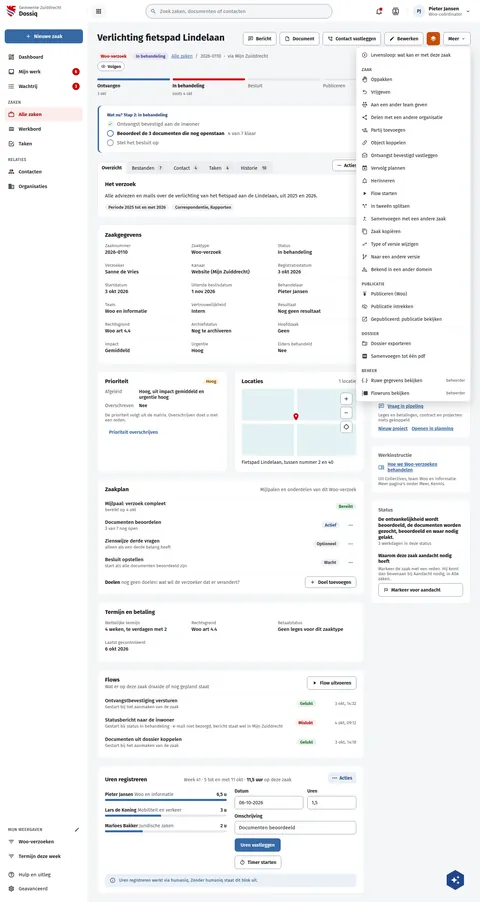
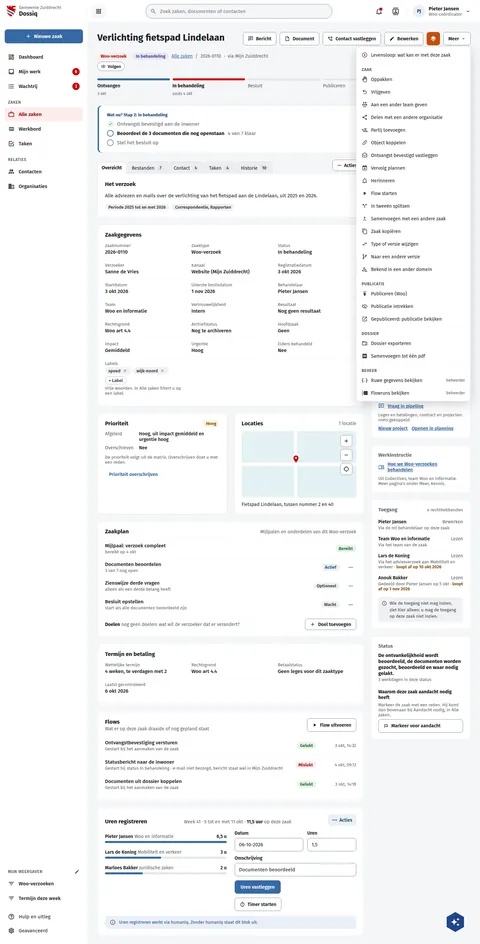
fix(screens): DqZaakMeer draws the Labels row and the Toegang card, as DqZaak does
DqZaakMeer is the same page and case as DqZaak with the Meer menu open. Ruben
chose one drawing for the page on 6 Nov.

Assisted-by: ClaudeCode:claude-opus-5-5

diff --git a/preview/screens/boards/DqZaakMeer.html b/preview/screens/boards/DqZaakMeer.html
@@ -232,7 +232,7 @@ a{color:var(--sc-primary, #3669a5)}a:hover{color:var(--sc-primary-deep, #234a78)
             </section>
             <section aria-labelledby="zg-titel" style="background: #ffffff; border: 1px solid var(--sc-work-line, #e4e6ea); border-radius: 12px; padding: 20px 22px; display: flex; flex-direction: column; gap: 14px">
               <h2 id="zg-titel" style="margin: 0; font-size: 17px; font-weight: 700">Zaakgegevens</h2>
-              <dl style="margin: 0; display: grid; grid-template-columns: repeat(auto-fit, minmax(200px, 1fr)); gap: 12px 24px; font-size: 15px"><div style="display: flex; flex-direction: column; gap: 3px; padding-bottom: 10px; border-bottom: 1px solid var(--sc-work-soft, #eef0f3)"><dt style="font-size: 13px; color: var(--sc-work-muted, #5e6168)">Zaaknummer</dt><dd style="margin: 0; font-weight: 500">2026-0110</dd></div><div style="display: flex; flex-direction: column; gap: 3px; padding-bottom: 10px; border-bottom: 1px solid var(--sc-work-soft, #eef0f3)"><dt style="font-size: 13px; color: var(--sc-work-muted, #5e6168)">Zaaktype</dt><dd style="margin: 0; font-weight: 500">Woo-verzoek</dd></div><div style="display: flex; flex-direction: column; gap: 3px; padding-bottom: 10px; border-bottom: 1px solid var(--sc-work-soft, #eef0f3)"><dt style="font-size: 13px; color: var(--sc-work-muted, #5e6168)">Status</dt><dd style="margin: 0; font-weight: 500">In behandeling</dd></div><div style="display: flex; flex-direction: column; gap: 3px; padding-bottom: 10px; border-bottom: 1px solid var(--sc-work-soft, #eef0f3)"><dt style="font-size: 13px; color: var(--sc-work-muted, #5e6168)">Verzoeker</dt><dd style="margin: 0; font-weight: 500">Sanne de Vries</dd></div><div style="display: flex; flex-direction: column; gap: 3px; padding-bottom: 10px; border-bottom: 1px solid var(--sc-work-soft, #eef0f3)"><dt style="font-size: 13px; color: var(--sc-work-muted, #5e6168)">Kanaal</dt><dd style="margin: 0; font-weight: 500">Website (Mijn Zuiddrecht)</dd></div><div style="display: flex; flex-direction: column; gap: 3px; padding-bottom: 10px; border-bottom: 1px solid var(--sc-work-soft, #eef0f3)"><dt style="font-size: 13px; color: var(--sc-work-muted, #5e6168)">Registratiedatum</dt><dd style="margin: 0; font-weight: 500">3 okt 2026</dd></div><div style="display: flex; flex-direction: column; gap: 3px; padding-bottom: 10px; border-bottom: 1px solid var(--sc-work-soft, #eef0f3)"><dt style="font-size: 13px; color: var(--sc-work-muted, #5e6168)">Startdatum</dt><dd style="margin: 0; font-weight: 500">3 okt 2026</dd></div><div style="display: flex; flex-direction: column; gap: 3px; padding-bottom: 10px; border-bottom: 1px solid var(--sc-work-soft, #eef0f3)"><dt style="font-size: 13px; color: var(--sc-work-muted, #5e6168)">Uiterste beslisdatum</dt><dd style="margin: 0; font-weight: 500">1 nov 2026</dd></div><div style="display: flex; flex-direction: column; gap: 3px; padding-bottom: 10px; border-bottom: 1px solid var(--sc-work-soft, #eef0f3)"><dt style="font-size: 13px; color: var(--sc-work-muted, #5e6168)">Behandelaar</dt><dd style="margin: 0; font-weight: 500">Pieter Jansen</dd></div><div style="display: flex; flex-direction: column; gap: 3px; padding-bottom: 10px; border-bottom: 1px solid var(--sc-work-soft, #eef0f3)"><dt style="font-size: 13px; color: var(--sc-work-muted, #5e6168)">Team</dt><dd style="margin: 0; font-weight: 500">Woo en informatie</dd></div><div style="display: flex; flex-direction: column; gap: 3px; padding-bottom: 10px; border-bottom: 1px solid var(--sc-work-soft, #eef0f3)"><dt style="font-size: 13px; color: var(--sc-work-muted, #5e6168)">Vertrouwelijkheid</dt><dd style="margin: 0; font-weight: 500">Intern</dd></div><div style="display: flex; flex-direction: column; gap: 3px; padding-bottom: 10px; border-bottom: 1px solid var(--sc-work-soft, #eef0f3)"><dt style="font-size: 13px; color: var(--sc-work-muted, #5e6168)">Resultaat</dt><dd style="margin: 0; font-weight: 500">Nog geen resultaat</dd></div><div style="display: flex; flex-direction: column; gap: 3px; padding-bottom: 10px; border-bottom: 1px solid var(--sc-work-soft, #eef0f3)"><dt style="font-size: 13px; color: var(--sc-work-muted, #5e6168)">Rechtsgrond</dt><dd style="margin: 0; font-weight: 500">Woo art 4.4</dd></div><div style="display: flex; flex-direction: column; gap: 3px; padding-bottom: 10px; border-bottom: 1px solid var(--sc-work-soft, #eef0f3)"><dt style="font-size: 13px; color: var(--sc-work-muted, #5e6168)">Archiefstatus</dt><dd style="margin: 0; font-weight: 500">Nog te archiveren</dd></div><div style="display: flex; flex-direction: column; gap: 3px; padding-bottom: 10px; border-bottom: 1px solid var(--sc-work-soft, #eef0f3)"><dt style="font-size: 13px; color: var(--sc-work-muted, #5e6168)">Hoofdzaak</dt><dd style="margin: 0; font-weight: 500">Geen</dd></div><div style="display: flex; flex-direction: column; gap: 3px; padding-bottom: 10px; border-bottom: 1px solid var(--sc-work-soft, #eef0f3)"><dt style="font-size: 13px; color: var(--sc-work-muted, #5e6168)">Impact</dt><dd style="margin: 0; font-weight: 500">Gemiddeld</dd></div><div style="display: flex; flex-direction: column; gap: 3px; padding-bottom: 10px; border-bottom: 1px solid var(--sc-work-soft, #eef0f3)"><dt style="font-size: 13px; color: var(--sc-work-muted, #5e6168)">Urgentie</dt><dd style="margin: 0; font-weight: 500">Hoog</dd></div><div style="display: flex; flex-direction: column; gap: 3px; padding-bottom: 10px; border-bottom: 1px solid var(--sc-work-soft, #eef0f3)"><dt style="font-size: 13px; color: var(--sc-work-muted, #5e6168)">Elders behandeld</dt><dd style="margin: 0; font-weight: 500">Nee</dd></div></dl>
+              <dl style="margin: 0; display: grid; grid-template-columns: repeat(auto-fit, minmax(200px, 1fr)); gap: 12px 24px; font-size: 15px"><div style="display: flex; flex-direction: column; gap: 3px; padding-bottom: 10px; border-bottom: 1px solid var(--sc-work-soft, #eef0f3)"><dt style="font-size: 13px; color: var(--sc-work-muted, #5e6168)">Zaaknummer</dt><dd style="margin: 0; font-weight: 500">2026-0110</dd></div><div style="display: flex; flex-direction: column; gap: 3px; padding-bottom: 10px; border-bottom: 1px solid var(--sc-work-soft, #eef0f3)"><dt style="font-size: 13px; color: var(--sc-work-muted, #5e6168)">Zaaktype</dt><dd style="margin: 0; font-weight: 500">Woo-verzoek</dd></div><div style="display: flex; flex-direction: column; gap: 3px; padding-bottom: 10px; border-bottom: 1px solid var(--sc-work-soft, #eef0f3)"><dt style="font-size: 13px; color: var(--sc-work-muted, #5e6168)">Status</dt><dd style="margin: 0; font-weight: 500">In behandeling</dd></div><div style="display: flex; flex-direction: column; gap: 3px; padding-bottom: 10px; border-bottom: 1px solid var(--sc-work-soft, #eef0f3)"><dt style="font-size: 13px; color: var(--sc-work-muted, #5e6168)">Verzoeker</dt><dd style="margin: 0; font-weight: 500">Sanne de Vries</dd></div><div style="display: flex; flex-direction: column; gap: 3px; padding-bottom: 10px; border-bottom: 1px solid var(--sc-work-soft, #eef0f3)"><dt style="font-size: 13px; color: var(--sc-work-muted, #5e6168)">Kanaal</dt><dd style="margin: 0; font-weight: 500">Website (Mijn Zuiddrecht)</dd></div><div style="display: flex; flex-direction: column; gap: 3px; padding-bottom: 10px; border-bottom: 1px solid var(--sc-work-soft, #eef0f3)"><dt style="font-size: 13px; color: var(--sc-work-muted, #5e6168)">Registratiedatum</dt><dd style="margin: 0; font-weight: 500">3 okt 2026</dd></div><div style="display: flex; flex-direction: column; gap: 3px; padding-bottom: 10px; border-bottom: 1px solid var(--sc-work-soft, #eef0f3)"><dt style="font-size: 13px; color: var(--sc-work-muted, #5e6168)">Startdatum</dt><dd style="margin: 0; font-weight: 500">3 okt 2026</dd></div><div style="display: flex; flex-direction: column; gap: 3px; padding-bottom: 10px; border-bottom: 1px solid var(--sc-work-soft, #eef0f3)"><dt style="font-size: 13px; color: var(--sc-work-muted, #5e6168)">Uiterste beslisdatum</dt><dd style="margin: 0; font-weight: 500">1 nov 2026</dd></div><div style="display: flex; flex-direction: column; gap: 3px; padding-bottom: 10px; border-bottom: 1px solid var(--sc-work-soft, #eef0f3)"><dt style="font-size: 13px; color: var(--sc-work-muted, #5e6168)">Behandelaar</dt><dd style="margin: 0; font-weight: 500">Pieter Jansen</dd></div><div style="display: flex; flex-direction: column; gap: 3px; padding-bottom: 10px; border-bottom: 1px solid var(--sc-work-soft, #eef0f3)"><dt style="font-size: 13px; color: var(--sc-work-muted, #5e6168)">Team</dt><dd style="margin: 0; font-weight: 500">Woo en informatie</dd></div><div style="display: flex; flex-direction: column; gap: 3px; padding-bottom: 10px; border-bottom: 1px solid var(--sc-work-soft, #eef0f3)"><dt style="font-size: 13px; color: var(--sc-work-muted, #5e6168)">Vertrouwelijkheid</dt><dd style="margin: 0; font-weight: 500">Intern</dd></div><div style="display: flex; flex-direction: column; gap: 3px; padding-bottom: 10px; border-bottom: 1px solid var(--sc-work-soft, #eef0f3)"><dt style="font-size: 13px; color: var(--sc-work-muted, #5e6168)">Resultaat</dt><dd style="margin: 0; font-weight: 500">Nog geen resultaat</dd></div><div style="display: flex; flex-direction: column; gap: 3px; padding-bottom: 10px; border-bottom: 1px solid var(--sc-work-soft, #eef0f3)"><dt style="font-size: 13px; color: var(--sc-work-muted, #5e6168)">Rechtsgrond</dt><dd style="margin: 0; font-weight: 500">Woo art 4.4</dd></div><div style="display: flex; flex-direction: column; gap: 3px; padding-bottom: 10px; border-bottom: 1px solid var(--sc-work-soft, #eef0f3)"><dt style="font-size: 13px; color: var(--sc-work-muted, #5e6168)">Archiefstatus</dt><dd style="margin: 0; font-weight: 500">Nog te archiveren</dd></div><div style="display: flex; flex-direction: column; gap: 3px; padding-bottom: 10px; border-bottom: 1px solid var(--sc-work-soft, #eef0f3)"><dt style="font-size: 13px; color: var(--sc-work-muted, #5e6168)">Hoofdzaak</dt><dd style="margin: 0; font-weight: 500">Geen</dd></div><div style="display: flex; flex-direction: column; gap: 3px; padding-bottom: 10px; border-bottom: 1px solid var(--sc-work-soft, #eef0f3)"><dt style="font-size: 13px; color: var(--sc-work-muted, #5e6168)">Impact</dt><dd style="margin: 0; font-weight: 500">Gemiddeld</dd></div><div style="display: flex; flex-direction: column; gap: 3px; padding-bottom: 10px; border-bottom: 1px solid var(--sc-work-soft, #eef0f3)"><dt style="font-size: 13px; color: var(--sc-work-muted, #5e6168)">Urgentie</dt><dd style="margin: 0; font-weight: 500">Hoog</dd></div><div style="display: flex; flex-direction: column; gap: 3px; padding-bottom: 10px; border-bottom: 1px solid var(--sc-work-soft, #eef0f3)"><dt style="font-size: 13px; color: var(--sc-work-muted, #5e6168)">Elders behandeld</dt><dd style="margin: 0; font-weight: 500">Nee</dd></div><div style="display: flex; flex-direction: column; gap: 3px; padding-bottom: 10px; border-bottom: 1px solid var(--sc-work-soft, #eef0f3)"><dt style="font-size: 13px; color: var(--sc-work-muted, #5e6168)">Labels</dt><dd style="margin: 0; font-weight: 500"><span style="display: flex; flex-wrap: wrap; gap: 6px; align-items: center"><span style="display: inline-flex; align-items: center; gap: 4px; padding: 2px 10px; border-radius: 12px; background: var(--sc-work-chip, #f0f1f3); color: var(--sc-work-text, #3d4047); font-size: 13px; font-weight: 600">spoed<button type="button" aria-label="Label spoed verwijderen" style="width: 18px; height: 18px; border: 0; border-radius: 9px; background: transparent; color: var(--sc-work-muted, #5e6168); display: inline-flex; align-items: center; justify-content: center; padding: 0"><svg width="12" height="12" viewbox="0 0 24 24" fill="currentColor"><path d="M19,6.41L17.59,5L12,10.59L6.41,5L5,6.41L10.59,12L5,17.59L6.41,19L12,13.41L17.59,19L19,17.59L13.41,12L19,6.41Z"></path></svg></button></span><span style="display: inline-flex; align-items: center; gap: 4px; padding: 2px 10px; border-radius: 12px; background: var(--sc-work-chip, #f0f1f3); color: var(--sc-work-text, #3d4047); font-size: 13px; font-weight: 600">wijk-noord<button type="button" aria-label="Label wijk-noord verwijderen" style="width: 18px; height: 18px; border: 0; border-radius: 9px; background: transparent; color: var(--sc-work-muted, #5e6168); display: inline-flex; align-items: center; justify-content: center; padding: 0"><svg width="12" height="12" viewbox="0 0 24 24" fill="currentColor"><path d="M19,6.41L17.59,5L12,10.59L6.41,5L5,6.41L10.59,12L5,17.59L6.41,19L12,13.41L17.59,19L19,17.59L13.41,12L19,6.41Z"></path></svg></button></span><button type="button" style="height: 24px; padding: 0 10px; border: 1px dashed var(--sc-work-field, #828a95); border-radius: 12px; background: #ffffff; font: 600 13px var(--sc-font, 'Fira Sans'), sans-serif; color: var(--sc-work-text, #3d4047)">+ Label</button></span><span style="display: block; margin-top: 4px; font-size: 13px; color: var(--sc-work-muted, #5e6168); font-weight: 400">Vrije woorden. In Alle zaken filtert u op een label.</span></dd></div></dl>
             </section>
             <div style="display: grid; grid-template-columns: repeat(auto-fit, minmax(300px, 1fr)); gap: 20px">
               <section aria-labelledby="pr-titel" style="background: #ffffff; border: 1px solid var(--sc-work-line, #e4e6ea); border-radius: 12px; padding: 20px 22px; display: flex; flex-direction: column; gap: 12px">
@@ -308,6 +308,16 @@ a{color:var(--sc-primary, #3669a5)}a:hover{color:var(--sc-primary-deep, #234a78)
               <h2 style="margin: 0; font-size: 15px; font-weight: 600; color: var(--sc-work-muted, #5e6168)">Werkinstructie</h2>
               <a href="#" style="display: flex; gap: 10px; align-items: center; font-size: 14px; font-weight: 600"><svg width="18" height="18" viewbox="0 0 24 24" fill="currentColor"><path d="M12 21.5C10.65 20.65 8.2 20 6.5 20C4.85 20 3.15 20.3 1.75 21.05C1.65 21.1 1.6 21.1 1.5 21.1C1.25 21.1 1 20.85 1 20.6V6C1.6 5.55 2.25 5.25 3 5C4.11 4.65 5.33 4.5 6.5 4.5C8.45 4.5 10.55 4.9 12 6C13.45 4.9 15.55 4.5 17.5 4.5C18.67 4.5 19.89 4.65 21 5C21.75 5.25 22.4 5.55 23 6V20.6C23 20.85 22.75 21.1 22.5 21.1C22.4 21.1 22.35 21.1 22.25 21.05C20.85 20.3 19.15 20 17.5 20C15.8 20 13.35 20.65 12 21.5M11 7.5C9.64 6.9 7.84 6.5 6.5 6.5C5.3 6.5 4.1 6.65 3 7V18.5C4.1 18.15 5.3 18 6.5 18C7.84 18 9.64 18.4 11 19V7.5M13 19C14.36 18.4 16.16 18 17.5 18C18.7 18 19.9 18.15 21 18.5V7C19.9 6.65 18.7 6.5 17.5 6.5C16.16 6.5 14.36 6.9 13 7.5V19M14 16.35C14.96 16 16.12 15.83 17.5 15.83C18.54 15.83 19.38 15.91 20 16.07V14.57C19.13 14.41 18.29 14.33 17.5 14.33C16.16 14.33 15 14.5 14 14.76V16.35M14 13.69C14.96 13.34 16.12 13.16 17.5 13.16C18.54 13.16 19.38 13.24 20 13.4V11.9C19.13 11.74 18.29 11.67 17.5 11.67C16.22 11.67 15.05 11.82 14 12.12V13.69M14 11C14.96 10.67 16.12 10.5 17.5 10.5C18.41 10.5 19.26 10.59 20 10.78V9.23C19.13 9.08 18.29 9 17.5 9C16.18 9 15 9.15 14 9.46V11Z"></path></svg>Hoe we Woo-verzoeken behandelen</a>
               <span style="font-size: 13px; color: var(--sc-work-muted, #5e6168)">Uit Collectives, team Woo en informatie. Meer pagina's onder Meer, Kennis.</span>
+            </section>
+            <section aria-labelledby="tg-titel" style="background: #ffffff; border: 1px solid var(--sc-work-line, #e4e6ea); border-radius: 12px; padding: 20px 22px; display: flex; flex-direction: column; gap: 10px">
+              <div style="display: flex; justify-content: space-between; align-items: center; gap: 10px"><h2 id="tg-titel" style="margin: 0; font-size: 15px; font-weight: 600; color: var(--sc-work-muted, #5e6168)">Toegang</h2><span style="font-size: 13px; color: var(--sc-work-muted, #5e6168)">4 rechthebbenden</span></div>
+              <ul style="margin: 0; padding: 0; list-style: none; display: flex; flex-direction: column; font-size: 14px">
+                <li style="display: flex; flex-direction: column; gap: 2px; padding: 8px 0; border-top: 1px solid var(--sc-work-soft, #eef0f3)"><span style="display: flex; justify-content: space-between; gap: 8px"><strong style="font-weight: 600">Pieter Jansen</strong><span style="color: var(--sc-work-muted, #5e6168)">Bewerken</span></span><span style="font-size: 13px; color: var(--sc-work-muted, #5e6168)">Via de rol behandelaar op deze zaak</span></li>
+                <li style="display: flex; flex-direction: column; gap: 2px; padding: 8px 0; border-top: 1px solid var(--sc-work-soft, #eef0f3)"><span style="display: flex; justify-content: space-between; gap: 8px"><strong style="font-weight: 600">Team Woo en informatie</strong><span style="color: var(--sc-work-muted, #5e6168)">Lezen</span></span><span style="font-size: 13px; color: var(--sc-work-muted, #5e6168)">Via het team van de zaak</span></li>
+                <li style="display: flex; flex-direction: column; gap: 2px; padding: 8px 0; border-top: 1px solid var(--sc-work-soft, #eef0f3)"><span style="display: flex; justify-content: space-between; gap: 8px"><strong style="font-weight: 600">Lars de Koning</strong><span style="color: var(--sc-work-muted, #5e6168)">Lezen</span></span><span style="font-size: 13px; color: var(--sc-work-muted, #5e6168)">Via het adviesverzoek aan Mobiliteit en verkeer · <span style="color: #7a4f00; font-weight: 600">loopt af op 10 okt 2026</span></span></li>
+                <li style="display: flex; flex-direction: column; gap: 2px; padding: 8px 0; border-top: 1px solid var(--sc-work-soft, #eef0f3)"><span style="display: flex; justify-content: space-between; gap: 8px"><strong style="font-weight: 600">Anouk Bakker</strong><span style="color: var(--sc-work-muted, #5e6168)">Lezen</span></span><span style="font-size: 13px; color: var(--sc-work-muted, #5e6168)">Gedeeld door Pieter Jansen op 5 okt · <span style="color: #7a4f00; font-weight: 600">loopt af op 1 nov 2026</span></span></li>
+              </ul>
+              <span style="display: flex; gap: 8px; align-items: flex-start; padding: 8px 10px; border-radius: 8px; background: var(--sc-work-chip, #f0f1f3); font-size: 13px; color: var(--sc-work-text, #3d4047); line-height: 1.5"><svg width="16" height="16" viewbox="0 0 24 24" fill="currentColor" aria-hidden="true" style="flex: none; margin-top: 2px"><path d="M11,9H13V7H11M12,20C7.59,20 4,16.41 4,12C4,7.59 7.59,4 12,4C16.41,4 20,7.59 20,12C20,16.41 16.41,20 12,20M12,2A10,10 0 0,0 2,12A10,10 0 0,0 12,22A10,10 0 0,0 22,12A10,10 0 0,0 12,2M11,17H13V11H11V17Z"></path></svg><span>Wie de toegang niet mag inzien, ziet hier alleen: u mag de toegang op deze zaak niet inzien.</span></span>
             </section>
             <section style="background: #ffffff; border: 1px solid var(--sc-work-line, #e4e6ea); border-radius: 12px; padding: 20px 22px; display: flex; flex-direction: column; gap: 10px"><h2 style="margin: 0; font-size: 15px; font-weight: 600; color: var(--sc-work-muted, #5e6168)">Status</h2><span style="display: flex; flex-direction: column; gap: 2px"><strong style="font-size: 15px">De ontvankelijkheid wordt beoordeeld, de documenten worden gezocht, beoordeeld en waar nodig gelakt.</strong><span style="font-size: 13px; color: var(--sc-work-muted, #5e6168)">3 werkdagen in deze status</span></span><div style="display: flex; flex-direction: column; gap: 6px; padding-top: 10px; border-top: 1px solid var(--sc-work-soft, #eef0f3)"><strong style="font-size: 14px">Waarom deze zaak aandacht nodig heeft</strong><span style="font-size: 13px; color: var(--sc-work-muted, #5e6168)">Markeer de zaak met een reden. Hij komt dan bovenaan bij Aandacht nodig, in Alle zaken.</span><button type="button" style="display: inline-flex; align-items: center; gap: 8px; height: 40px; padding: 0 14px; border-radius: 8px; border: 1px solid var(--sc-work-field, #828a95); background: #ffffff; color: var(--sc-work-ink, #1b1c1d); font: 600 14px var(--sc-font, 'Fira Sans'), sans-serif; white-space: nowrap"><svg width="16" height="16" viewbox="0 0 24 24" fill="currentColor" aria-hidden="true"><path d="M12.36,6L12.76,8H18V14H14.64L14.24,12H7V6H12.36M14,4H5V21H7V14H12.6L13,16H20V6H14.4"></path></svg>Markeer voor aandacht</button></div></section>
           </aside>

diff --git a/screens-src/zuiddrecht/DqZaakMeer.dc.html b/screens-src/zuiddrecht/DqZaakMeer.dc.html
@@ -82,7 +82,7 @@ a{color:#3669a5}a:hover{color:#234a78}
             </section>
             <section aria-labelledby="zg-titel" style="background: #ffffff; border: 1px solid #e4e6ea; border-radius: 12px; padding: 20px 22px; display: flex; flex-direction: column; gap: 14px">
               <h2 id="zg-titel" style="margin: 0; font-size: 17px; font-weight: 700">Zaakgegevens</h2>
-              <dl style="margin: 0; display: grid; grid-template-columns: repeat(auto-fit, minmax(200px, 1fr)); gap: 12px 24px; font-size: 15px"><div style="display: flex; flex-direction: column; gap: 3px; padding-bottom: 10px; border-bottom: 1px solid #eef0f3"><dt style="font-size: 13px; color: #5e6168">Zaaknummer</dt><dd style="margin: 0; font-weight: 500">2026-0110</dd></div><div style="display: flex; flex-direction: column; gap: 3px; padding-bottom: 10px; border-bottom: 1px solid #eef0f3"><dt style="font-size: 13px; color: #5e6168">Zaaktype</dt><dd style="margin: 0; font-weight: 500">Woo-verzoek</dd></div><div style="display: flex; flex-direction: column; gap: 3px; padding-bottom: 10px; border-bottom: 1px solid #eef0f3"><dt style="font-size: 13px; color: #5e6168">Status</dt><dd style="margin: 0; font-weight: 500">In behandeling</dd></div><div style="display: flex; flex-direction: column; gap: 3px; padding-bottom: 10px; border-bottom: 1px solid #eef0f3"><dt style="font-size: 13px; color: #5e6168">Verzoeker</dt><dd style="margin: 0; font-weight: 500">Sanne de Vries</dd></div><div style="display: flex; flex-direction: column; gap: 3px; padding-bottom: 10px; border-bottom: 1px solid #eef0f3"><dt style="font-size: 13px; color: #5e6168">Kanaal</dt><dd style="margin: 0; font-weight: 500">Website (Mijn Zuiddrecht)</dd></div><div style="display: flex; flex-direction: column; gap: 3px; padding-bottom: 10px; border-bottom: 1px solid #eef0f3"><dt style="font-size: 13px; color: #5e6168">Registratiedatum</dt><dd style="margin: 0; font-weight: 500">3 okt 2026</dd></div><div style="display: flex; flex-direction: column; gap: 3px; padding-bottom: 10px; border-bottom: 1px solid #eef0f3"><dt style="font-size: 13px; color: #5e6168">Startdatum</dt><dd style="margin: 0; font-weight: 500">3 okt 2026</dd></div><div style="display: flex; flex-direction: column; gap: 3px; padding-bottom: 10px; border-bottom: 1px solid #eef0f3"><dt style="font-size: 13px; color: #5e6168">Uiterste beslisdatum</dt><dd style="margin: 0; font-weight: 500">1 nov 2026</dd></div><div style="display: flex; flex-direction: column; gap: 3px; padding-bottom: 10px; border-bottom: 1px solid #eef0f3"><dt style="font-size: 13px; color: #5e6168">Behandelaar</dt><dd style="margin: 0; font-weight: 500">Pieter Jansen</dd></div><div style="display: flex; flex-direction: column; gap: 3px; padding-bottom: 10px; border-bottom: 1px solid #eef0f3"><dt style="font-size: 13px; color: #5e6168">Team</dt><dd style="margin: 0; font-weight: 500">Woo en informatie</dd></div><div style="display: flex; flex-direction: column; gap: 3px; padding-bottom: 10px; border-bottom: 1px solid #eef0f3"><dt style="font-size: 13px; color: #5e6168">Vertrouwelijkheid</dt><dd style="margin: 0; font-weight: 500">Intern</dd></div><div style="display: flex; flex-direction: column; gap: 3px; padding-bottom: 10px; border-bottom: 1px solid #eef0f3"><dt style="font-size: 13px; color: #5e6168">Resultaat</dt><dd style="margin: 0; font-weight: 500">Nog geen resultaat</dd></div><div style="display: flex; flex-direction: column; gap: 3px; padding-bottom: 10px; border-bottom: 1px solid #eef0f3"><dt style="font-size: 13px; color: #5e6168">Rechtsgrond</dt><dd style="margin: 0; font-weight: 500">Woo art 4.4</dd></div><div style="display: flex; flex-direction: column; gap: 3px; padding-bottom: 10px; border-bottom: 1px solid #eef0f3"><dt style="font-size: 13px; color: #5e6168">Archiefstatus</dt><dd style="margin: 0; font-weight: 500">Nog te archiveren</dd></div><div style="display: flex; flex-direction: column; gap: 3px; padding-bottom: 10px; border-bottom: 1px solid #eef0f3"><dt style="font-size: 13px; color: #5e6168">Hoofdzaak</dt><dd style="margin: 0; font-weight: 500">Geen</dd></div><div style="display: flex; flex-direction: column; gap: 3px; padding-bottom: 10px; border-bottom: 1px solid #eef0f3"><dt style="font-size: 13px; color: #5e6168">Impact</dt><dd style="margin: 0; font-weight: 500">Gemiddeld</dd></div><div style="display: flex; flex-direction: column; gap: 3px; padding-bottom: 10px; border-bottom: 1px solid #eef0f3"><dt style="font-size: 13px; color: #5e6168">Urgentie</dt><dd style="margin: 0; font-weight: 500">Hoog</dd></div><div style="display: flex; flex-direction: column; gap: 3px; padding-bottom: 10px; border-bottom: 1px solid #eef0f3"><dt style="font-size: 13px; color: #5e6168">Elders behandeld</dt><dd style="margin: 0; font-weight: 500">Nee</dd></div></dl>
+              <dl style="margin: 0; display: grid; grid-template-columns: repeat(auto-fit, minmax(200px, 1fr)); gap: 12px 24px; font-size: 15px"><div style="display: flex; flex-direction: column; gap: 3px; padding-bottom: 10px; border-bottom: 1px solid #eef0f3"><dt style="font-size: 13px; color: #5e6168">Zaaknummer</dt><dd style="margin: 0; font-weight: 500">2026-0110</dd></div><div style="display: flex; flex-direction: column; gap: 3px; padding-bottom: 10px; border-bottom: 1px solid #eef0f3"><dt style="font-size: 13px; color: #5e6168">Zaaktype</dt><dd style="margin: 0; font-weight: 500">Woo-verzoek</dd></div><div style="display: flex; flex-direction: column; gap: 3px; padding-bottom: 10px; border-bottom: 1px solid #eef0f3"><dt style="font-size: 13px; color: #5e6168">Status</dt><dd style="margin: 0; font-weight: 500">In behandeling</dd></div><div style="display: flex; flex-direction: column; gap: 3px; padding-bottom: 10px; border-bottom: 1px solid #eef0f3"><dt style="font-size: 13px; color: #5e6168">Verzoeker</dt><dd style="margin: 0; font-weight: 500">Sanne de Vries</dd></div><div style="display: flex; flex-direction: column; gap: 3px; padding-bottom: 10px; border-bottom: 1px solid #eef0f3"><dt style="font-size: 13px; color: #5e6168">Kanaal</dt><dd style="margin: 0; font-weight: 500">Website (Mijn Zuiddrecht)</dd></div><div style="display: flex; flex-direction: column; gap: 3px; padding-bottom: 10px; border-bottom: 1px solid #eef0f3"><dt style="font-size: 13px; color: #5e6168">Registratiedatum</dt><dd style="margin: 0; font-weight: 500">3 okt 2026</dd></div><div style="display: flex; flex-direction: column; gap: 3px; padding-bottom: 10px; border-bottom: 1px solid #eef0f3"><dt style="font-size: 13px; color: #5e6168">Startdatum</dt><dd style="margin: 0; font-weight: 500">3 okt 2026</dd></div><div style="display: flex; flex-direction: column; gap: 3px; padding-bottom: 10px; border-bottom: 1px solid #eef0f3"><dt style="font-size: 13px; color: #5e6168">Uiterste beslisdatum</dt><dd style="margin: 0; font-weight: 500">1 nov 2026</dd></div><div style="display: flex; flex-direction: column; gap: 3px; padding-bottom: 10px; border-bottom: 1px solid #eef0f3"><dt style="font-size: 13px; color: #5e6168">Behandelaar</dt><dd style="margin: 0; font-weight: 500">Pieter Jansen</dd></div><div style="display: flex; flex-direction: column; gap: 3px; padding-bottom: 10px; border-bottom: 1px solid #eef0f3"><dt style="font-size: 13px; color: #5e6168">Team</dt><dd style="margin: 0; font-weight: 500">Woo en informatie</dd></div><div style="display: flex; flex-direction: column; gap: 3px; padding-bottom: 10px; border-bottom: 1px solid #eef0f3"><dt style="font-size: 13px; color: #5e6168">Vertrouwelijkheid</dt><dd style="margin: 0; font-weight: 500">Intern</dd></div><div style="display: flex; flex-direction: column; gap: 3px; padding-bottom: 10px; border-bottom: 1px solid #eef0f3"><dt style="font-size: 13px; color: #5e6168">Resultaat</dt><dd style="margin: 0; font-weight: 500">Nog geen resultaat</dd></div><div style="display: flex; flex-direction: column; gap: 3px; padding-bottom: 10px; border-bottom: 1px solid #eef0f3"><dt style="font-size: 13px; color: #5e6168">Rechtsgrond</dt><dd style="margin: 0; font-weight: 500">Woo art 4.4</dd></div><div style="display: flex; flex-direction: column; gap: 3px; padding-bottom: 10px; border-bottom: 1px solid #eef0f3"><dt style="font-size: 13px; color: #5e6168">Archiefstatus</dt><dd style="margin: 0; font-weight: 500">Nog te archiveren</dd></div><div style="display: flex; flex-direction: column; gap: 3px; padding-bottom: 10px; border-bottom: 1px solid #eef0f3"><dt style="font-size: 13px; color: #5e6168">Hoofdzaak</dt><dd style="margin: 0; font-weight: 500">Geen</dd></div><div style="display: flex; flex-direction: column; gap: 3px; padding-bottom: 10px; border-bottom: 1px solid #eef0f3"><dt style="font-size: 13px; color: #5e6168">Impact</dt><dd style="margin: 0; font-weight: 500">Gemiddeld</dd></div><div style="display: flex; flex-direction: column; gap: 3px; padding-bottom: 10px; border-bottom: 1px solid #eef0f3"><dt style="font-size: 13px; color: #5e6168">Urgentie</dt><dd style="margin: 0; font-weight: 500">Hoog</dd></div><div style="display: flex; flex-direction: column; gap: 3px; padding-bottom: 10px; border-bottom: 1px solid #eef0f3"><dt style="font-size: 13px; color: #5e6168">Elders behandeld</dt><dd style="margin: 0; font-weight: 500">Nee</dd></div><div style="display: flex; flex-direction: column; gap: 3px; padding-bottom: 10px; border-bottom: 1px solid #eef0f3"><dt style="font-size: 13px; color: #5e6168">Labels</dt><dd style="margin: 0; font-weight: 500"><span style="display: flex; flex-wrap: wrap; gap: 6px; align-items: center"><span style="display: inline-flex; align-items: center; gap: 4px; padding: 2px 10px; border-radius: 12px; background: #f0f1f3; color: #3d4047; font-size: 13px; font-weight: 600">spoed<button type="button" aria-label="Label spoed verwijderen" style="width: 18px; height: 18px; border: 0; border-radius: 9px; background: transparent; color: #5e6168; display: inline-flex; align-items: center; justify-content: center; padding: 0"><svg width="12" height="12" viewBox="0 0 24 24" fill="currentColor"><path d="M19,6.41L17.59,5L12,10.59L6.41,5L5,6.41L10.59,12L5,17.59L6.41,19L12,13.41L17.59,19L19,17.59L13.41,12L19,6.41Z"></path></svg></button></span><span style="display: inline-flex; align-items: center; gap: 4px; padding: 2px 10px; border-radius: 12px; background: #f0f1f3; color: #3d4047; font-size: 13px; font-weight: 600">wijk-noord<button type="button" aria-label="Label wijk-noord verwijderen" style="width: 18px; height: 18px; border: 0; border-radius: 9px; background: transparent; color: #5e6168; display: inline-flex; align-items: center; justify-content: center; padding: 0"><svg width="12" height="12" viewBox="0 0 24 24" fill="currentColor"><path d="M19,6.41L17.59,5L12,10.59L6.41,5L5,6.41L10.59,12L5,17.59L6.41,19L12,13.41L17.59,19L19,17.59L13.41,12L19,6.41Z"></path></svg></button></span><button type="button" style="height: 24px; padding: 0 10px; border: 1px dashed #828a95; border-radius: 12px; background: #ffffff; font: 600 13px 'Fira Sans', sans-serif; color: #3d4047">+ Label</button></span><span style="display: block; margin-top: 4px; font-size: 13px; color: #5e6168; font-weight: 400">Vrije woorden. In Alle zaken filtert u op een label.</span></dd></div></dl>
             </section>
             <div style="display: grid; grid-template-columns: repeat(auto-fit, minmax(300px, 1fr)); gap: 20px">
               <section aria-labelledby="pr-titel" style="background: #ffffff; border: 1px solid #e4e6ea; border-radius: 12px; padding: 20px 22px; display: flex; flex-direction: column; gap: 12px">
@@ -158,6 +158,16 @@ a{color:#3669a5}a:hover{color:#234a78}
               <h2 style="margin: 0; font-size: 15px; font-weight: 600; color: #5e6168">Werkinstructie</h2>
               <a href="#" style="display: flex; gap: 10px; align-items: center; font-size: 14px; font-weight: 600"><svg width="18" height="18" viewBox="0 0 24 24" fill="currentColor"><path d="M12 21.5C10.65 20.65 8.2 20 6.5 20C4.85 20 3.15 20.3 1.75 21.05C1.65 21.1 1.6 21.1 1.5 21.1C1.25 21.1 1 20.85 1 20.6V6C1.6 5.55 2.25 5.25 3 5C4.11 4.65 5.33 4.5 6.5 4.5C8.45 4.5 10.55 4.9 12 6C13.45 4.9 15.55 4.5 17.5 4.5C18.67 4.5 19.89 4.65 21 5C21.75 5.25 22.4 5.55 23 6V20.6C23 20.85 22.75 21.1 22.5 21.1C22.4 21.1 22.35 21.1 22.25 21.05C20.85 20.3 19.15 20 17.5 20C15.8 20 13.35 20.65 12 21.5M11 7.5C9.64 6.9 7.84 6.5 6.5 6.5C5.3 6.5 4.1 6.65 3 7V18.5C4.1 18.15 5.3 18 6.5 18C7.84 18 9.64 18.4 11 19V7.5M13 19C14.36 18.4 16.16 18 17.5 18C18.7 18 19.9 18.15 21 18.5V7C19.9 6.65 18.7 6.5 17.5 6.5C16.16 6.5 14.36 6.9 13 7.5V19M14 16.35C14.96 16 16.12 15.83 17.5 15.83C18.54 15.83 19.38 15.91 20 16.07V14.57C19.13 14.41 18.29 14.33 17.5 14.33C16.16 14.33 15 14.5 14 14.76V16.35M14 13.69C14.96 13.34 16.12 13.16 17.5 13.16C18.54 13.16 19.38 13.24 20 13.4V11.9C19.13 11.74 18.29 11.67 17.5 11.67C16.22 11.67 15.05 11.82 14 12.12V13.69M14 11C14.96 10.67 16.12 10.5 17.5 10.5C18.41 10.5 19.26 10.59 20 10.78V9.23C19.13 9.08 18.29 9 17.5 9C16.18 9 15 9.15 14 9.46V11Z"></path></svg>Hoe we Woo-verzoeken behandelen</a>
               <span style="font-size: 13px; color: #5e6168">Uit Collectives, team Woo en informatie. Meer pagina's onder Meer, Kennis.</span>
+            </section>
+            <section aria-labelledby="tg-titel" style="background: #ffffff; border: 1px solid #e4e6ea; border-radius: 12px; padding: 20px 22px; display: flex; flex-direction: column; gap: 10px">
+              <div style="display: flex; justify-content: space-between; align-items: center; gap: 10px"><h2 id="tg-titel" style="margin: 0; font-size: 15px; font-weight: 600; color: #5e6168">Toegang</h2><span style="font-size: 13px; color: #5e6168">4 rechthebbenden</span></div>
+              <ul style="margin: 0; padding: 0; list-style: none; display: flex; flex-direction: column; font-size: 14px">
+                <li style="display: flex; flex-direction: column; gap: 2px; padding: 8px 0; border-top: 1px solid #eef0f3"><span style="display: flex; justify-content: space-between; gap: 8px"><strong style="font-weight: 600">Pieter Jansen</strong><span style="color: #5e6168">Bewerken</span></span><span style="font-size: 13px; color: #5e6168">Via de rol behandelaar op deze zaak</span></li>
+                <li style="display: flex; flex-direction: column; gap: 2px; padding: 8px 0; border-top: 1px solid #eef0f3"><span style="display: flex; justify-content: space-between; gap: 8px"><strong style="font-weight: 600">Team Woo en informatie</strong><span style="color: #5e6168">Lezen</span></span><span style="font-size: 13px; color: #5e6168">Via het team van de zaak</span></li>
+                <li style="display: flex; flex-direction: column; gap: 2px; padding: 8px 0; border-top: 1px solid #eef0f3"><span style="display: flex; justify-content: space-between; gap: 8px"><strong style="font-weight: 600">Lars de Koning</strong><span style="color: #5e6168">Lezen</span></span><span style="font-size: 13px; color: #5e6168">Via het adviesverzoek aan Mobiliteit en verkeer · <span style="color: #7a4f00; font-weight: 600">loopt af op 10 okt 2026</span></span></li>
+                <li style="display: flex; flex-direction: column; gap: 2px; padding: 8px 0; border-top: 1px solid #eef0f3"><span style="display: flex; justify-content: space-between; gap: 8px"><strong style="font-weight: 600">Anouk Bakker</strong><span style="color: #5e6168">Lezen</span></span><span style="font-size: 13px; color: #5e6168">Gedeeld door Pieter Jansen op 5 okt · <span style="color: #7a4f00; font-weight: 600">loopt af op 1 nov 2026</span></span></li>
+              </ul>
+              <span style="display: flex; gap: 8px; align-items: flex-start; padding: 8px 10px; border-radius: 8px; background: #f0f1f3; font-size: 13px; color: #3d4047; line-height: 1.5"><svg width="16" height="16" viewBox="0 0 24 24" fill="currentColor" aria-hidden="true" style="flex: none; margin-top: 2px"><path d="M11,9H13V7H11M12,20C7.59,20 4,16.41 4,12C4,7.59 7.59,4 12,4C16.41,4 20,7.59 20,12C20,16.41 16.41,20 12,20M12,2A10,10 0 0,0 2,12A10,10 0 0,0 12,22A10,10 0 0,0 22,12A10,10 0 0,0 12,2M11,17H13V11H11V17Z"></path></svg><span>Wie de toegang niet mag inzien, ziet hier alleen: u mag de toegang op deze zaak niet inzien.</span></span>
             </section>
             <section style="background: #ffffff; border: 1px solid #e4e6ea; border-radius: 12px; padding: 20px 22px; display: flex; flex-direction: column; gap: 10px"><h2 style="margin: 0; font-size: 15px; font-weight: 600; color: #5e6168">Status</h2><span style="display: flex; flex-direction: column; gap: 2px"><strong style="font-size: 15px">De ontvankelijkheid wordt beoordeeld, de documenten worden gezocht, beoordeeld en waar nodig gelakt.</strong><span style="font-size: 13px; color: #5e6168">3 werkdagen in deze status</span></span><div style="display: flex; flex-direction: column; gap: 6px; padding-top: 10px; border-top: 1px solid #eef0f3"><strong style="font-size: 14px">Waarom deze zaak aandacht nodig heeft</strong><span style="font-size: 13px; color: #5e6168">Markeer de zaak met een reden. Hij komt dan bovenaan bij Aandacht nodig, in Alle zaken.</span><button type="button" style="display: inline-flex; align-items: center; gap: 8px; height: 40px; padding: 0 14px; border-radius: 8px; border: 1px solid #828a95; background: #ffffff; color: #1b1c1d; font: 600 14px 'Fira Sans', sans-serif; white-space: nowrap"><svg width="16" height="16" viewBox="0 0 24 24" fill="currentColor" aria-hidden="true"><path d="M12.36,6L12.76,8H18V14H14.64L14.24,12H7V6H12.36M14,4H5V21H7V14H12.6L13,16H20V6H14.4"></path></svg>Markeer voor aandacht</button></div></section>
           </aside>
